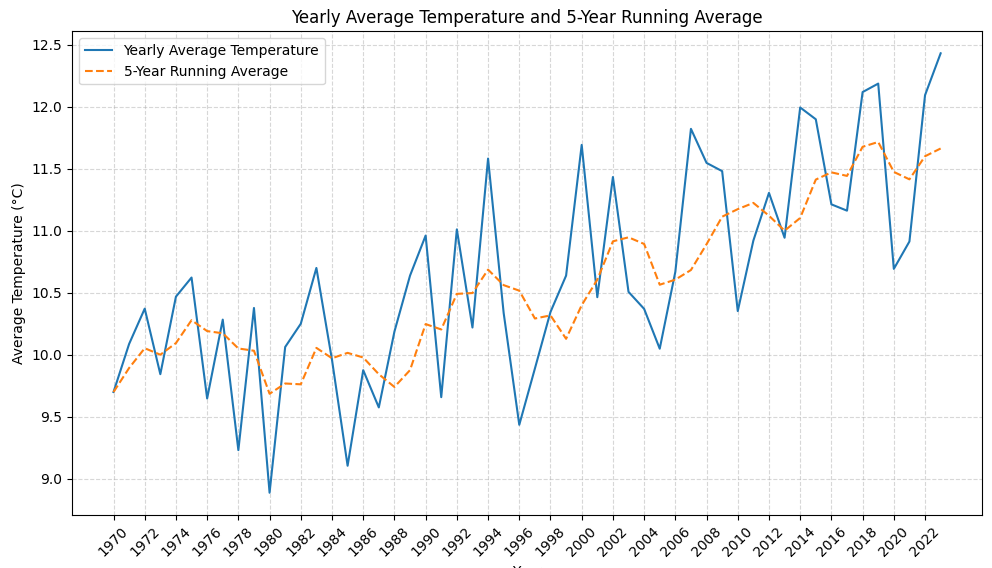
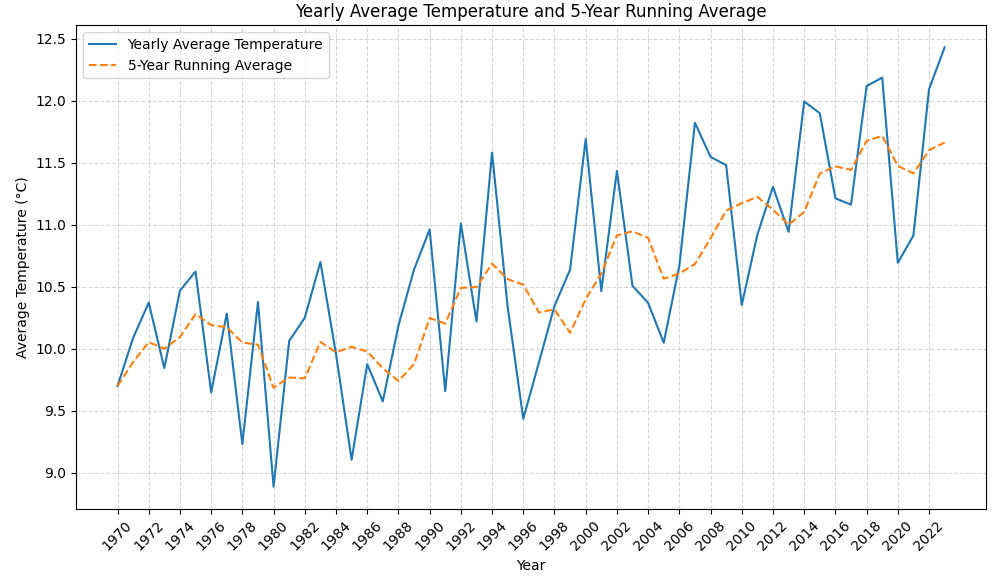
Improving illustration

diff --git a/README.md b/README.md
@@ -22,7 +22,7 @@ I made another plot to check if the parallelism is still present examined month 
 
 Continuing with the expanded dataset, the rise which began in the 1970's is more spectacular. There are some high and low values, but looking at the 5-year average, the trend is unequivocal.  
 
-<center><img src="illustration.png" style="width: 992px; height: 568px; margin: 10px; border: 2px solid #000; box-sizing: border-box;"></center>
+<center><img src="illustration.png" style="width: 993px; height: 579px; margin: 10px; border: 2px solid #000; box-sizing: border-box;"></center>
   
 ### Analysis of season's change
 People like to say that seasons' position have moved, but it is hard to remember how exactly things happened long ago. One's memory can fail him/her.
